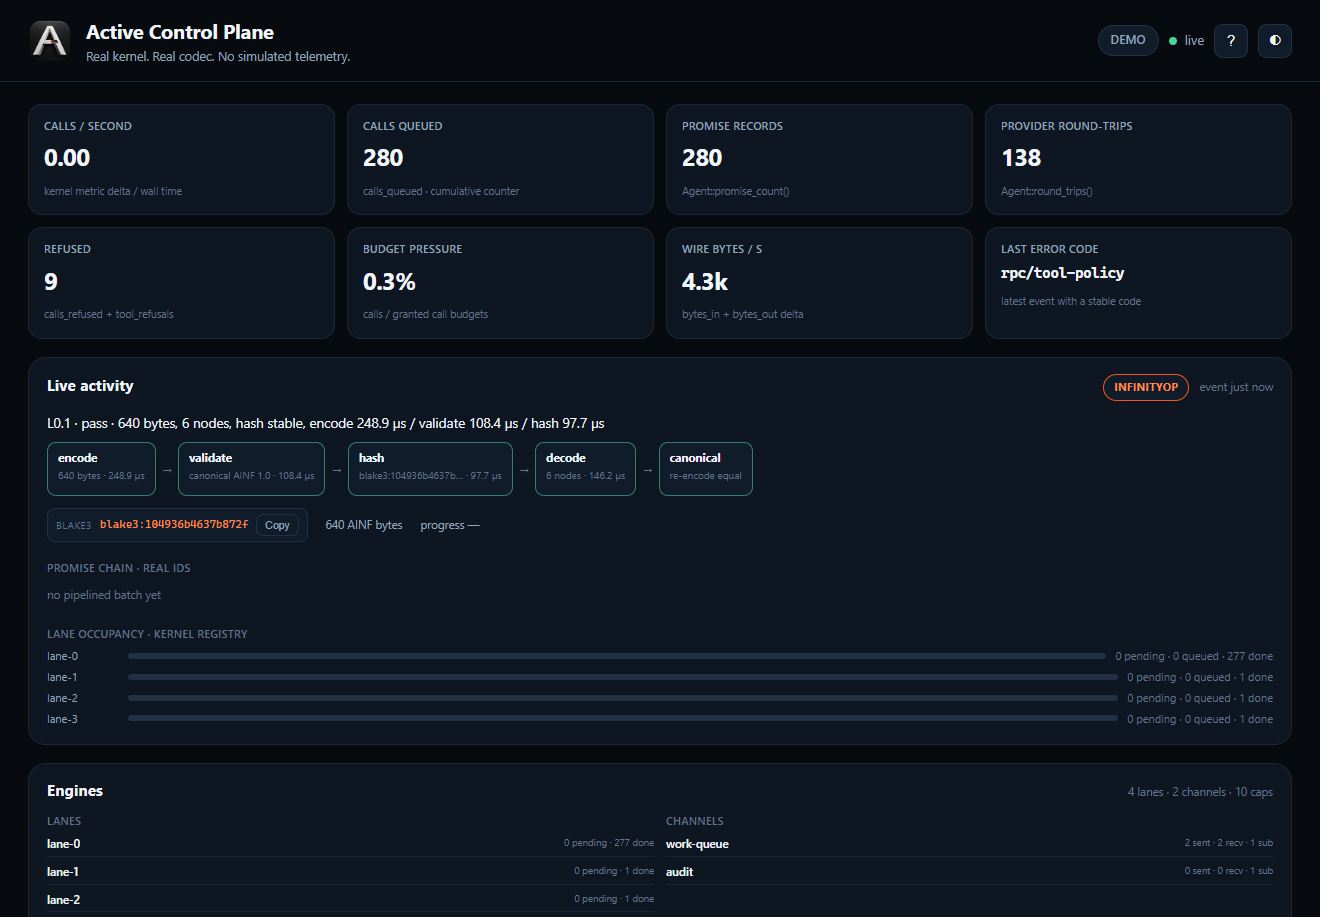
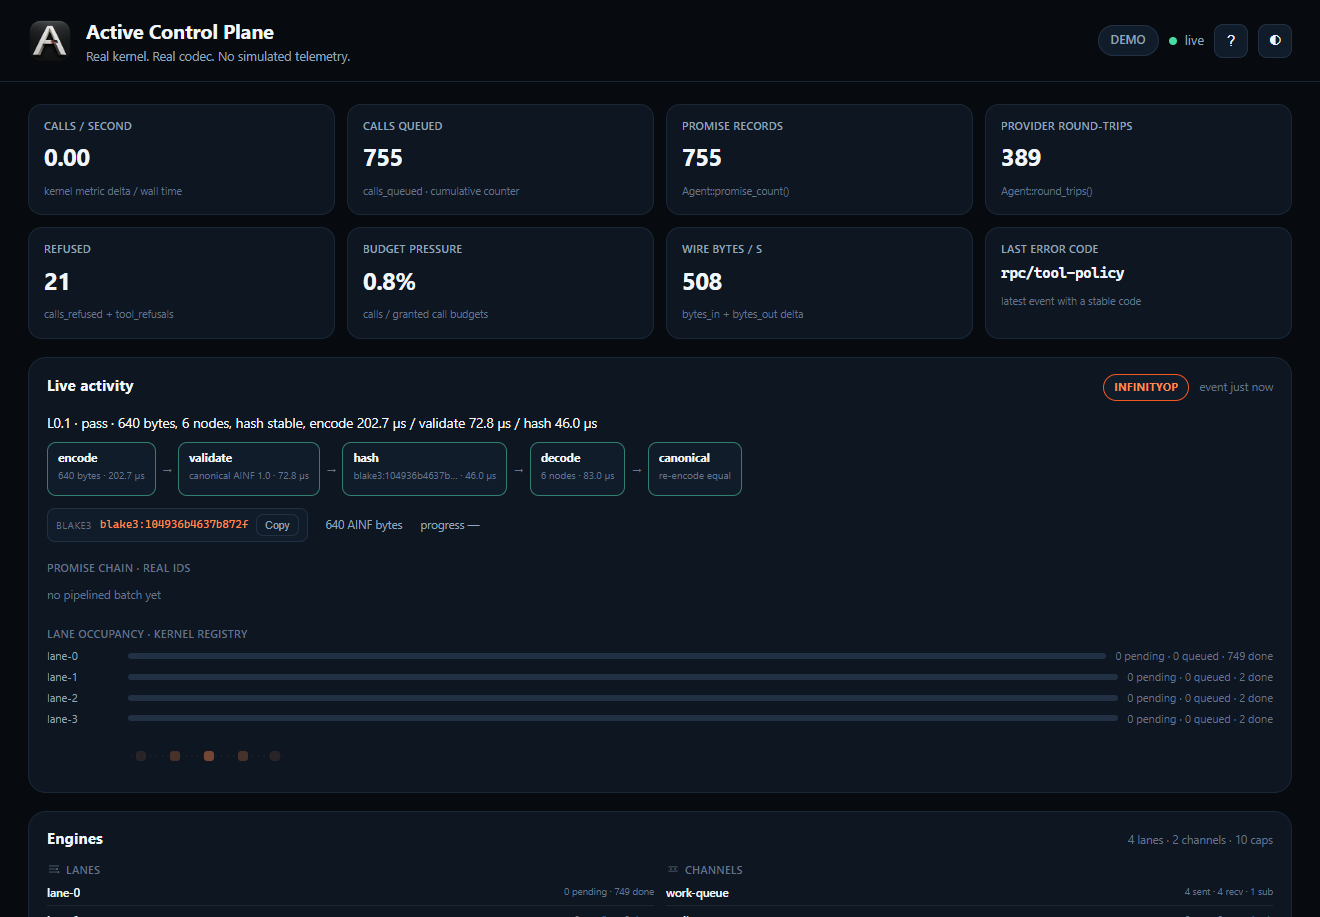
feat(control-plane): restore Figma chrome and add launch proof
Export D2-D6 from the Figma Brand frames and use them as theme-aware masks in the dashboard. Add benchmark and MCP captures, a committed two-launch harness with exact counter assertions, and manifest rows for every dashboard asset.

diff --git a/control-plane/public/style.css b/control-plane/public/style.css
@@ -120,6 +120,28 @@ main { max-width: 1560px; margin: 0 auto; padding: 22px 28px 40px; display: grid
 .hint { color: var(--faint); font-size: 11.5px; }
 .section-label { color: var(--faint); font-size: 10.5px; text-transform: uppercase; letter-spacing: 0.5px; font-weight: 600; }
 
+.icon-mask {
+  display: inline-block;
+  background-color: currentColor;
+  -webkit-mask-repeat: no-repeat;
+  mask-repeat: no-repeat;
+  -webkit-mask-position: center;
+  mask-position: center;
+  -webkit-mask-size: contain;
+  mask-size: contain;
+  vertical-align: -2px;
+}
+.icon-gauge { width: 22px; height: 14px; -webkit-mask-image: url("assets/gauge-frame.svg"); mask-image: url("assets/gauge-frame.svg"); }
+.icon-lane { width: 14px; height: 14px; -webkit-mask-image: url("assets/lane-icon.svg"); mask-image: url("assets/lane-icon.svg"); }
+.icon-channel { width: 14px; height: 14px; -webkit-mask-image: url("assets/channel-icon.svg"); mask-image: url("assets/channel-icon.svg"); }
+.icon-cap { width: 14px; height: 14px; -webkit-mask-image: url("assets/cap-icon.svg"); mask-image: url("assets/cap-icon.svg"); }
+.panel-head h2 .icon-mask { margin-right: 7px; }
+.panel-icon { width: 24px; height: 16px; color: var(--accent); }
+.section-label .icon-mask { margin-right: 5px; opacity: 0.75; }
+.packet-flow { display: block; width: 100%; max-width: 320px; height: 36px; margin-top: 12px; background-color: var(--accent-soft); opacity: 0.42; -webkit-mask-image: url("assets/packet-flow.svg"); mask-image: url("assets/packet-flow.svg"); -webkit-mask-size: contain; mask-size: contain; -webkit-mask-repeat: no-repeat; mask-repeat: no-repeat; }
+.cap-head { display: flex; align-items: center; gap: 5px; margin-top: 12px; }
+.cap-head .icon-mask { width: 14px; height: 14px; color: var(--accent); }
+
 .mode-badge {
   border: 1px solid var(--stroke);
   background: var(--panel-2);

diff --git a/control-plane/public/index.html b/control-plane/public/index.html
@@ -65,6 +65,7 @@
           <span class="section-label">Lane occupancy · kernel registry</span>
           <div class="lane-bars" id="lane-bars"></div>
         </div>
+        <span class="packet-flow icon-mask icon-packet" aria-hidden="true"></span>
       </article>
 
       <article class="panel engine-panel">
@@ -73,6 +74,7 @@
           <span class="hint" id="engine-counts">4 lanes · 2 channels</span>
         </div>
         <div class="engine-grid" id="engine-grid"></div>
+        <div class="cap-head"><span class="icon-mask icon-cap" aria-hidden="true"></span><span class="section-label">Capability grants</span></div>
         <div class="cap-list" id="cap-list"></div>
         <div class="cap-drawer" id="cap-drawer">
           <span class="hint">Select a capability to inspect its real grants.</span>
@@ -82,7 +84,7 @@
 
     <section class="panel gauges-panel">
       <div class="panel-head">
-        <h2>Live gauges</h2>
+        <h2><span class="icon-mask icon-gauge panel-icon" aria-hidden="true"></span> Live gauges</h2>
         <span class="hint">last sample is exact · click any gauge for its definition and samples</span>
       </div>
       <div class="gauge-grid" id="gauge-grid"></div>

diff --git a/control-plane/public/app.js b/control-plane/public/app.js
@@ -460,7 +460,7 @@
 		);
 		$("engine-grid").innerHTML = `
       <div class="engine-col">
-        <span class="section-label">Lanes</span>
+        <span class="section-label"><span class="icon-mask icon-lane" aria-hidden="true"></span>Lanes</span>
         ${engines.lanes
 					.map(
 						(lane) =>
@@ -469,7 +469,7 @@
 					.join("")}
       </div>
       <div class="engine-col">
-        <span class="section-label">Channels</span>
+        <span class="section-label"><span class="icon-mask icon-channel" aria-hidden="true"></span>Channels</span>
         ${engines.channels
 					.map(
 						(channel) =>

diff --git a/control-plane/scripts/launch_check.py b/control-plane/scripts/launch_check.py
@@ -1,0 +1,184 @@
+#!/usr/bin/env python3
+"""Start the shipped control plane twice and assert the documented shape.
+
+Run from `control-plane/` after `cargo build`:
+
+    python scripts/launch_check.py
+
+The harness starts a fresh process on two ports, asserts the field set, runs
+the pipelining scenario, and requires the exact deterministic counter deltas
+(12 queued calls, 7 provider round-trips) on both launches.
+"""
+
+from __future__ import annotations
+
+import json
+import pathlib
+import subprocess
+import sys
+import time
+import urllib.error
+import urllib.request
+
+ROOT = pathlib.Path(__file__).resolve().parents[1]
+BINARY = (
+    ROOT
+    / "target"
+    / "debug"
+    / (
+        "active-control-plane.exe"
+        if sys.platform == "win32"
+        else "active-control-plane"
+    )
+)
+PORTS = (8891, 8892)
+
+
+def get(base: str, path: str) -> dict:
+    with urllib.request.urlopen(base + path, timeout=10) as response:
+        return json.loads(response.read().decode("utf-8"))
+
+
+def post(base: str, path: str) -> dict:
+    request = urllib.request.Request(
+        base + path,
+        data=b"{}",
+        headers={"content-type": "application/json"},
+        method="POST",
+    )
+    with urllib.request.urlopen(request, timeout=60) as response:
+        return json.loads(response.read().decode("utf-8"))
+
+
+def wait_ready(base: str) -> None:
+    deadline = time.time() + 20
+    while time.time() < deadline:
+        try:
+            health = get(base, "/health")
+            if health.get("ok"):
+                return
+        except (urllib.error.URLError, ConnectionError):
+            pass
+        time.sleep(0.2)
+    raise RuntimeError(f"{base} did not become ready")
+
+
+def assert_shape(snapshot: dict, label: str) -> None:
+    required = {
+        "ts_ms",
+        "uptime_ms",
+        "health",
+        "metrics",
+        "infinity",
+        "engines",
+        "events",
+        "scenarios",
+        "activity",
+        "gauge_samples",
+        "last_error_code",
+    }
+    missing = required - set(snapshot)
+    assert not missing, f"{label}: snapshot missing {sorted(missing)}"
+    metrics = snapshot["metrics"]
+    for field in (
+        "calls_queued",
+        "calls_refused",
+        "round_trips",
+        "promise_records",
+        "active_lanes",
+        "active_channels",
+        "caps_live",
+        "canonical_ok_rate",
+        "p99_call_us",
+    ):
+        assert field in metrics, f"{label}: metrics missing {field}"
+    assert len(snapshot["engines"]["lanes"]) == 4, f"{label}: lanes"
+    assert len(snapshot["engines"]["channels"]) == 2, f"{label}: channels"
+    assert len(snapshot["engines"]["capabilities"]) == 10, f"{label}: capabilities"
+    assert len(snapshot["scenarios"]) == 22, f"{label}: ladder size"
+    assert len(snapshot["gauge_samples"]) == 20, f"{label}: gauge samples"
+    assert snapshot["health"]["kernel"] == "up", f"{label}: kernel"
+    assert snapshot["health"]["redaction_ok"] is True, f"{label}: redaction"
+
+
+def one_launch(port: int, label: str) -> list[str]:
+    base = f"http://127.0.0.1:{port}"
+    log = [f"== {label} on {base} =="]
+    process = subprocess.Popen(
+        [str(BINARY), "--port", str(port)],
+        cwd=str(ROOT),
+        stdout=subprocess.PIPE,
+        stderr=subprocess.STDOUT,
+        text=True,
+    )
+    try:
+        wait_ready(base)
+        before = get(base, "/metrics")
+        assert_shape(before, label)
+        log.append(
+            "before: calls_queued={calls_queued} round_trips={round_trips} lanes={lanes} "
+            "channels={channels} caps={caps} gauges={gauges}".format(
+                calls_queued=before["metrics"]["calls_queued"],
+                round_trips=before["metrics"]["round_trips"],
+                lanes=len(before["engines"]["lanes"]),
+                channels=len(before["engines"]["channels"]),
+                caps=len(before["engines"]["capabilities"]),
+                gauges=len(before["gauge_samples"]),
+            )
+        )
+        result = post(base, "/demo/scenario/pipeline")
+        after = get(base, "/metrics")
+        assert result["result"]["ok"] is True, f"{label}: pipeline failed"
+        assert result["result"]["code"] == "L1.1", f"{label}: pipeline code"
+        delta_calls = (
+            after["metrics"]["calls_queued"] - before["metrics"]["calls_queued"]
+        )
+        delta_round_trips = (
+            after["metrics"]["round_trips"] - before["metrics"]["round_trips"]
+        )
+        assert delta_calls == 12, f"{label}: expected 12 calls, got {delta_calls}"
+        assert delta_round_trips == 7, (
+            f"{label}: expected 7 round-trips, got {delta_round_trips}"
+        )
+        activity = get(base, "/activity")
+        assert activity["mode"] == "RpcBatch", f"{label}: activity mode"
+        assert len(activity["promise_chain"]) == 6, f"{label}: promise chain"
+        assert len(activity["stages"]) >= 2, f"{label}: stages"
+        page = urllib.request.urlopen(base + "/", timeout=10).read().decode("utf-8")
+        for marker in ("Live activity", "Live gauges", "Scenario ladder"):
+            assert marker in page, f"{label}: dashboard missing {marker}"
+        assert "Topology" not in page, f"{label}: topology still present"
+        log.extend(
+            [
+                f"after: calls_queued={after['metrics']['calls_queued']} "
+                f"round_trips={after['metrics']['round_trips']}",
+                f"delta: calls_queued=+{delta_calls} round_trips=+{delta_round_trips}",
+                f"activity: {activity['mode']} stages={len(activity['stages'])} "
+                f"chain={activity['promise_chain']}",
+                f"pipeline: {result['result']['detail']}",
+                f"dashboard bytes: {len(page)}",
+            ]
+        )
+        return log
+    finally:
+        process.terminate()
+        try:
+            process.wait(timeout=5)
+        except subprocess.TimeoutExpired:
+            process.kill()
+            process.wait(timeout=5)
+
+
+def main() -> int:
+    if not BINARY.exists():
+        subprocess.run(["cargo", "build"], cwd=str(ROOT), check=True)
+    lines = []
+    for index, port in enumerate(PORTS, start=1):
+        lines.extend(one_launch(port, f"launch {index}"))
+    lines.append("RESULT: both launches reproduced the documented shape and deltas")
+    print("\n".join(lines))
+    return 0
+
+
+if __name__ == "__main__":
+    raise SystemExit(main())

diff --git a/docs/assets/ASSETS-MANIFEST.md b/docs/assets/ASSETS-MANIFEST.md
@@ -10,6 +10,15 @@
 | `control-plane-light.png` | Live dashboard screenshot (light) with Live activity, 20 real gauges, engines and event log | 1320x917 |
 | `control-plane-gauges-dark.png` | Live gauge grid (dark): 20 source-labelled gauges from the running plane | 1320x917 |
 | `control-plane-gauges-light.png` | Live gauge grid (light): 20 source-labelled gauges from the running plane | 1320x917 |
+| `control-plane-benchmark-dark.png` | Benchmark desk and Agent access panels (dark) after a real 40-iteration run | 1320x917 |
+| `control-plane-benchmark-light.png` | Benchmark desk and Agent access panels (light) after a real 40-iteration run | 1320x917 |
+| `control-plane-mcp-dark.png` | Agent access and MCP configuration panel (dark) | 1320x917 |
+| `control-plane-mcp-light.png` | Agent access and MCP configuration panel (light) | 1320x917 |
+| `../../control-plane/public/assets/gauge-frame.svg` | D2 reusable gauge bezel, exported from Figma frame 1:20 | 260x160 |
+| `../../control-plane/public/assets/lane-icon.svg` | D3 lane metaphor icon, exported from Figma frame 1:25 | 64x64 |
+| `../../control-plane/public/assets/channel-icon.svg` | D4 channel metaphor icon, exported from Figma frame 1:29 | 64x64 |
+| `../../control-plane/public/assets/cap-icon.svg` | D5 capability token icon, exported from Figma frame 1:34 | 64x64 |
+| `../../control-plane/public/assets/packet-flow.svg` | D6 packet-flow motif, exported from Figma frame 1:40 | 320x72 |
 | `readme-arch-rpc-dark.png` | README theme asset | 1320x462 |
 | `readme-arch-rpc-dark.svg` | README theme asset | 2400x840 |
 | `readme-arch-rpc-light.png` | README theme asset | 1320x462 |
@@ -25,8 +34,9 @@
 
 All README images are authored at 2400x840 and exported losslessly at 1320x462
 (1.5x GitHub README width) to stay inside the 500 KB budget. Light/dark pairs
-are separate files; the README selects them with GitHub theme fragments and a
-`<picture>`/`prefers-color-scheme` fallback. The palette is the active-lang
+are separate files; the README selects them with `<picture>` and
+`prefers-color-scheme`. GitHub's deprecated `#gh-` fragments are not used;
+that deviation is recorded in the package and goal notes. The palette is the active-lang
 header: #101016 charcoal, #f2571f orange, #a0a7b0 gray, flat surfaces, no
 gradients. The approved mark `active-mark.png` is an exact byte copy of
 active-lang's `docs/assets/active-icon.png`

diff --git a/README.md b/README.md
@@ -178,6 +178,12 @@ ladder, plus REST and WebSocket snapshots and an MCP server for agents.
   <img src="docs/assets/control-plane-gauges-light.png" alt="The 20 live gauges, each captioned with its exact kernel or codec source">
 </picture>
 
+<picture>
+  <source media="(prefers-color-scheme: dark)" srcset="docs/assets/control-plane-benchmark-dark.png">
+  <source media="(prefers-color-scheme: light)" srcset="docs/assets/control-plane-benchmark-light.png">
+  <img src="docs/assets/control-plane-benchmark-light.png" alt="Benchmark desk with measured p50/p99 samples and the one-click MCP configuration">
+</picture>
+
 ```bash
 cd control-plane
 cargo run
